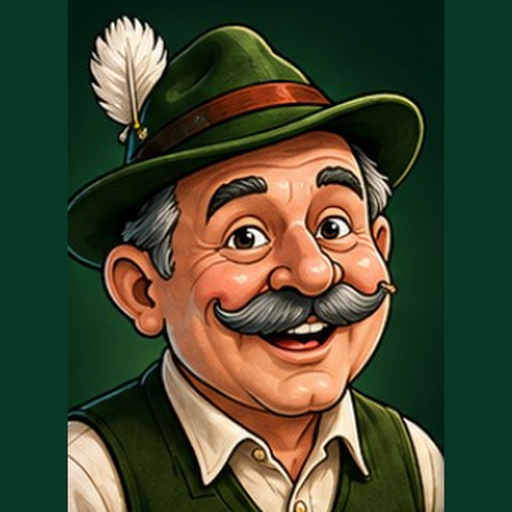
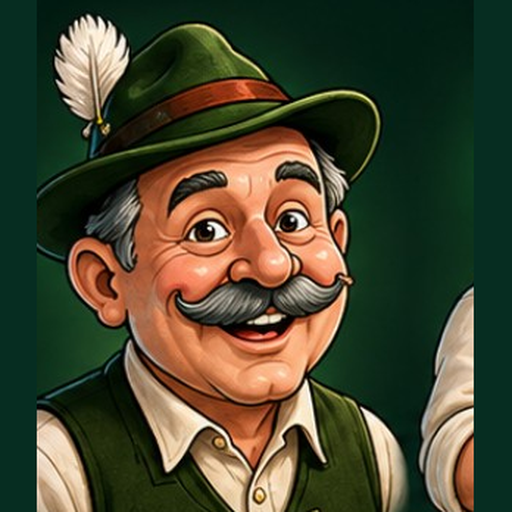
Add files via upload

diff --git a/index.html b/index.html
@@ -760,7 +760,7 @@ function normalizeEntry(e){const today=new Date();const fallbackDate=[today.getF
   gameType:GAME_MAP[e.gameType]?e.gameType:''
  };}
 
-const VERSION='3.2';
+const VERSION='3.2.1';
 const KEY='schafkopf-tracker-v1'; // unveraendert seit v1.1
 const defaultRates=()=>({rufspiel:10,solo:50,bettel:50,hochzeit:20,kreuzrunde:20,ramsch:10,schneider:10,schwarz:10,laeufer:10});
 const defaultRules=()=>({allowSchuss:false,allowKontra:false,rufMinRunners:3});
@@ -1870,4 +1870,31 @@ function wastlV3(){return `<div class="wastl-v3"><div class="wastl-tavern"><img 
 
 render();
 
-</script></body></html>
+</script><style id="v321-visual-refine">
+.home-hero-panel{display:grid;grid-template-columns:1.15fr .85fr;gap:14px;margin-bottom:16px}.home-hero-main{background:linear-gradient(180deg,#0d291f,#10352a);border:1px solid rgba(214,175,88,.22);border-radius:28px;padding:22px;box-shadow:0 14px 26px rgba(0,0,0,.22)}.home-hero-main .over{color:#d7c48b;font-weight:800;letter-spacing:1px;font-size:12px}.home-hero-main h2{margin:6px 0 8px;color:#fff2d8;font-size:30px;line-height:1.04}.home-hero-main p{margin:0;color:#d8e1d3}.home-hero-main .hero-actions{display:flex;gap:10px;flex-wrap:wrap;margin-top:16px}.hero-mini-kpis{display:grid;gap:12px}.hero-mini-kpis .mini{background:linear-gradient(180deg,#f8efd9,#f2e2ba);color:#222;border:1px solid #d5b86f;border-radius:24px;padding:18px 16px;box-shadow:0 10px 18px rgba(0,0,0,.12)}.hero-mini-kpis .mini span{display:block;color:#5e553f;font-size:13px;margin-bottom:5px}.hero-mini-kpis .mini b{font-size:28px;color:#153624}.hero-mini-kpis .mini small{display:block;color:#5e553f;margin-top:4px}
+.section-shell{background:linear-gradient(180deg,#103126,#0d271f);border:1px solid rgba(214,175,88,.16);border-radius:28px;padding:14px;box-shadow:0 12px 22px rgba(0,0,0,.18)}
+.home-quick-grid{display:grid;grid-template-columns:repeat(3,minmax(0,1fr));gap:12px}.home-quick-card{background:linear-gradient(180deg,#14352a,#10291f);border:1px solid rgba(214,175,88,.18);border-radius:24px;padding:18px;text-align:left;color:#fff0d4;box-shadow:0 10px 16px rgba(0,0,0,.15)}.home-quick-card b{display:block;font-size:18px;margin-top:8px}.home-quick-card small{display:block;color:#c3d1c3;margin-top:4px}.home-quick-card .ic{width:42px;height:42px;border-radius:14px;display:grid;place-items:center;background:linear-gradient(180deg,#1d944d,#156e3d);color:#fff}
+.page-ribbon{display:flex;align-items:center;justify-content:space-between;gap:12px;margin:0 0 12px}.page-ribbon h2{margin:0;color:#fff1d7;font-size:24px}.page-ribbon p{margin:4px 0 0;color:#cad5c8}.page-ribbon .badge{background:#f3e4bf;color:#25412e}
+.capture-shell,.stats-shell,.games-shell{display:flex;flex-direction:column;gap:14px}.capture-hero{background:linear-gradient(180deg,#5b3823,#4b2d1d);border:1px solid rgba(214,175,88,.24);padding:18px 20px;border-radius:28px;color:#fcebd1;box-shadow:0 12px 24px rgba(0,0,0,.18)}.capture-hero h2{margin:0 0 6px;font-size:28px}.capture-hero p{margin:0;color:#f2dfc0}.capture-options{display:grid;gap:12px}.capture-options .workspace-option{padding:18px 20px}
+.games-toolbar{display:flex;align-items:center;justify-content:space-between;gap:12px;background:linear-gradient(180deg,#0d291f,#10352a);border:1px solid rgba(214,175,88,.2);border-radius:24px;padding:14px 16px}.games-toolbar .label b{display:block;color:#fff0d3}.games-toolbar .label small{color:#c7d1c4}.games-sections .training-modes{margin-bottom:12px}.games-sections .training-modes button{border-radius:18px;padding:12px 14px}
+.stats-shell .segmented-v3{margin-top:0}.stats-highlight{display:grid;grid-template-columns:1fr 1fr 1fr;gap:12px}.stats-highlight .mini{background:linear-gradient(180deg,#f8efd9,#f2e2ba);border:1px solid #d5b86f;border-radius:24px;padding:16px;color:#223121}.stats-highlight .mini span{display:block;color:#635840;font-size:13px}.stats-highlight .mini b{display:block;font-size:28px;margin-top:5px}.stats-title-card{background:linear-gradient(180deg,#0f2d22,#133b2d);border:1px solid rgba(214,175,88,.2);border-radius:28px;padding:18px 20px;color:#fff0d5}.stats-title-card h2{margin:0 0 6px;font-size:28px}.stats-title-card p{margin:0;color:#d2dccd}
+.mentor-speech.chessy{grid-template-columns:86px 1fr;align-items:end}.mentor-speech.chessy img{width:86px;height:86px;border-radius:18px;background:transparent;border:none;box-shadow:none;object-fit:cover}.mentor-speech.chessy .mentor-bubble{border-radius:22px;background:#faf7f2;color:#262626;border:1px solid #d7d3c8;min-height:82px;display:flex;align-items:center;font-size:18px;font-weight:600;padding:0 18px}.mentor-speech.chessy .mentor-bubble::before{left:-14px;top:auto;bottom:24px;border-width:10px 14px 10px 0;border-color:transparent #faf7f2 transparent transparent;filter:drop-shadow(-1px 0 0 #d7d3c8)}
+.mentor-stage .mentor-bubble{font-family:system-ui,Arial,sans-serif}.mentor-step-note{font-size:13px;color:#dbe7de;margin:-4px 0 10px}.mentor-hand-wrap{background:linear-gradient(180deg,#0f2b21,#0a2119)}
+.training-card .training-face,.mentor-card-frame .training-face{width:100%;height:auto}.training-card .playing-card{display:block;border-radius:18px;overflow:visible}.counter-card-grid{gap:8px}.training-card{padding:4px;border-radius:18px}.training-card .card-eyes{font-size:11px}
+.stitch-layout .stitch-head,.stitch-layout .counter-head{background:linear-gradient(180deg,#5b3823,#4b2d1d)!important;border-color:rgba(214,175,88,.24)!important}.stitch-layout .stitch-head h2,.stitch-layout .counter-head h2{color:#fff1d4}.stitch-history,.stitch-archive-detail .replay-panel,.counter-panel,.stitch-config,.stitch-seats{border-radius:24px}.formcard h3{color:#fff0d2}
+@media (max-width:780px){.home-hero-panel{grid-template-columns:1fr}.home-quick-grid,.stats-highlight{grid-template-columns:1fr}.mentor-speech.chessy{grid-template-columns:68px 1fr}.mentor-speech.chessy img{width:68px;height:68px}}
+</style>
+<script>
+function suitMark(suit,x,y,scale=1){let content='';if(suit==='herz') content='<path d="M12 21.6C7.5 18.4 2.5 13.7 2.5 8.9C2.5 4.2 7.6 1.7 12 5.8C16.4 1.7 21.5 4.2 21.5 8.9C21.5 13.7 16.5 18.4 12 21.6Z" fill="#d82727" stroke="#a81818" stroke-width="0.9"/>'; else if(suit==='gras') content='<path d="M12 21C3.8 18.4 3.6 7.6 12 3.2C20.4 7.6 20.2 18.4 12 21Z" fill="#269245" stroke="#185f2d" stroke-width="0.9"/><path d="M12 19.8V7" stroke="#154f29" stroke-width="1.3" stroke-linecap="round"/><path d="M12 11 8.2 14.6M12 9.5 16 13" stroke="#154f29" stroke-width="1.05" stroke-linecap="round"/>'; else if(suit==='eichel') content='<path d="M6.7 10.9c-2.3 4.4-.4 9.9 5.3 11c5.7-1.1 7.6-6.6 5.3-11Z" fill="#a56a22" stroke="#71461a" stroke-width="1"/><path d="M4.8 10.4C6.7 5.5 9.2 4 12 4.5c2.8-.5 5.3 1 7.2 5.9c-4.9 1.8-9.5 1.8-14.4 0Z" fill="#cf8a2d" stroke="#84531b" stroke-width="0.9"/><path d="M11.8 4.6 14.4 2" stroke="#6f4317" stroke-width="1.2" stroke-linecap="round"/>'; else content='<path d="M7.6 5.2 5.8 14.8Q5 20.2 12 21q7-.8 6.2-6.2L16.4 5.2Z" fill="#f0c535" stroke="#9d7118" stroke-width="1"/><path d="M6.2 9.3h11.6M7 14.7h10" stroke="#ce2d2d" stroke-width="2.15"/><path d="M12 5V2.5" stroke="#80581b" stroke-width="1.4" stroke-linecap="round"/>';return `<g transform="translate(${x} ${y}) scale(${scale})">${content}</g>`;}
+function pipLayout(rank){return ({'7':[[25,34],[65,34],[45,54],[25,74],[65,74],[25,95],[65,95]],'8':[[25,31],[65,31],[25,50],[65,50],[25,73],[65,73],[25,96],[65,96]],'9':[[45,25],[25,42],[65,42],[25,60],[65,60],[45,78],[25,96],[65,96],[45,114]],'10':[[25,23],[65,23],[25,39],[65,39],[25,55],[65,55],[25,71],[65,71],[25,87],[65,87]]})[rank]||[];}
+function royalTop(rank,suit){const skin='#efc49e', outline='#2f2922'; const suitCfg={eichel:{coat:'#2e8d45',trim:'#dcb85f',accent:'#b83b34',hat:'#1c6b35'},gras:{coat:'#2e8d45',trim:'#dcb85f',accent:'#b83b34',hat:'#1c6b35'},herz:{coat:'#c94437',trim:'#e6c66d',accent:'#275ba8',hat:'#bb4433'},schell:{coat:'#c94437',trim:'#e6c66d',accent:'#275ba8',hat:'#bb4433'}}[suit]; const isKing=rank==='K', isUpper=rank==='O'; const head=`<ellipse cx="45" cy="33" rx="12" ry="14" fill="${skin}" stroke="#7a5039" stroke-width="1.1"/><circle cx="40" cy="31" r="1.3" fill="#231a15"/><circle cx="50" cy="31" r="1.3" fill="#231a15"/><path d="M41 38c2.8 2.2 5.2 2.2 8 0" stroke="#8a6041" stroke-width="1.2" fill="none"/><path d="M34 22c3.6-6 17.3-6 21.8 1" stroke="#707070" stroke-width="5" stroke-linecap="round"/><path d="M36 23c2.5-4 5.4-6 9-6c4 0 6.9 1.8 9.8 5.4" stroke="#efefef" stroke-width="3.3" stroke-linecap="round"/>`; const hat=isKing?`<path d="M32 18 37 11 43 18 45 8 49 18 55 11 58 18v7H32Z" fill="#efcc5d" stroke="#9b7326" stroke-width="1.1"/><circle cx="43" cy="16" r="1.5" fill="#228b54"/><circle cx="49" cy="16" r="1.5" fill="#cb3434"/>`:`<path d="M31 22c4-9 12-14 21-14c8.5 0 14 3.5 19 12v9H31Z" fill="${suitCfg.hat}" stroke="#6a4326" stroke-width="1.1"/><path d="M43 10c7.5-1 13.4 1.2 18.5 5.4" stroke="#f2e6c4" stroke-width="2.2" fill="none" stroke-linecap="round"/><rect x="45" y="8" width="4" height="8" rx="2" fill="#f7f6f1"/>`; const body=`<path d="M19 111c0-29 9-52 26-58l17 0c17 6 26 29 26 58Z" fill="${suitCfg.coat}" stroke="${outline}" stroke-width="1.2"/><path d="M45 48V111" stroke="${suitCfg.trim}" stroke-width="3.6"/><path d="M26 72h38M23 88h44" stroke="#f7eed4" stroke-width="1.7"/><path d="M20 111c8-4 14-7 22-10l3 10l4-10c8 3 15 6 23 10" fill="${suitCfg.accent}" opacity=".36"/>`; const arms=isUpper?'<path d="M18 75c8-1 15-6 21-12" stroke="#f6e8c2" stroke-width="3" fill="none" stroke-linecap="round"/>':'<path d="M18 82c9-6 17-9 28-10" stroke="#f6e8c2" stroke-width="3" fill="none" stroke-linecap="round"/>'; const staff=isKing?'<path d="M67 31V101" stroke="#8b6322" stroke-width="3"/><circle cx="67" cy="27" r="4" fill="#e8c55e" stroke="#9b7326" stroke-width="1"/>':'<path d="M69 34 77 96" stroke="#8b6322" stroke-width="2.4"/><path d="M77 93 83 101 73 101Z" fill="#c7d7d2" stroke="#6e847f" stroke-width="1.1"/>'; return `<g>${body}${head}${hat}${staff}${arms}${suitMark(suit,28,77,.9)}</g>`;}
+function cardSVG(c){const colorMap={eichel:'#85571f',gras:'#1c7b40',herz:'#c81f26',schell:'#b27b10'}; const col=colorMap[c.suit]; const corner=`<text x="9" y="17" font-family="Georgia,serif" font-size="14" font-weight="700" fill="${col}">${c.rank}</text>${suitMark(c.suit,7.3,20,.48)}`; let center=''; if(c.rank==='A') center=`<g><path d="M45 98c-6 8-17 10-24 9c1-18 8-33 24-47c16 14 23 29 24 47c-7 1-18-1-24-9Z" fill="#fdf8ea" stroke="#ddcfae" stroke-width="1.2"/>${suitMark(c.suit,20,45,2.05)}</g>`; else if(['K','O','U'].includes(c.rank)) center=`<g transform="translate(0,10)">${royalTop(c.rank,c.suit)}</g><g transform="translate(90,132) rotate(180)">${royalTop(c.rank,c.suit)}</g>`; else center=pipLayout(c.rank).map(([x,y])=>suitMark(c.suit,x-8,y,.78)).join(''); return `<svg class="training-face" viewBox="0 0 90 142" xmlns="http://www.w3.org/2000/svg" aria-hidden="true"><defs><filter id="cardDrop321" x="-25%" y="-25%" width="150%" height="160%"><feDropShadow dx="0" dy="3" stdDeviation="2.1" flood-color="#000" flood-opacity=".16"/></filter></defs><rect x="2.2" y="2.2" width="85.6" height="137.6" rx="8.8" fill="#fffdfa" stroke="#26221f" stroke-width="1.4" filter="url(#cardDrop321)"/><rect x="5" y="5" width="80" height="132" rx="6.8" fill="#fffef8" stroke="#d9ccb3" stroke-width="1"/>${corner}<g transform="translate(90 142) rotate(180)">${corner}</g>${center}</svg>`;}
+function mentorSpeech(message){return `<div class="mentor-speech chessy"><img class="mentor-portrait" src="wastl.png" alt="Wastl"><div class="mentor-bubble">${esc(message)}</div></div>`;}
+function homeV3(){ const ss=summary(sessionEntries()), gamesSum=summary(gameEntries()), trained=[...stitch.archive].sort((a,b)=>String(b.started).localeCompare(String(a.started)))[0], latest=sorted(sessionEntries()).reverse().slice(0,3); return `<div class="home-v3"><div class="home-hero-panel"><div class="home-hero-main"><span class="over">SCHAFKOPFTRACKER · START</span><h2>Alles Wichtige an einem Ort.</h2><p>Erfasse Spielabende, tracke Einzelspiele und trainiere mit Wastl – jetzt im aufgeräumteren App-Look.</p><div class="hero-actions"><button type="button" class="btn" data-workspace="entry">Einzelspiel erfassen</button><button type="button" class="btn secondary" data-workspace="training">Karten tracken</button></div></div><div class="hero-mini-kpis"><div class="mini"><span>Gesamtbilanz</span><b class="${amountColor(ss.amount)}">${euro(ss.amount)}</b><small>${ss.count} Abende</small></div><div class="mini"><span>Einzelspiele</span><b>${gamesSum.count}</b><small>${gamesSum.amount>=0?'+':''}${normalEUR(gamesSum.amount)}</small></div><div class="mini"><span>Trainingspartien</span><b>${stitch.archive.length}</b><small>${trained?new Date(trained.started).toLocaleDateString('de-DE'):'Noch keine Partie'}</small></div></div></div><section class="section-shell"><div class="page-ribbon"><div><h2>Schnellzugriff</h2><p>Deine drei Hauptwege in die App.</p></div><span class="badge">Start</span></div><div class="home-quick-grid"><button class="home-quick-card" data-workspace="history"><span class="ic">${symbol('history')}</span><b>Spielabend</b><small>Manuell eintragen oder automatisch aus Einzelspielen übernehmen</small></button><button class="home-quick-card" data-workspace="entry"><span class="ic">${symbol('plus')}</span><b>Einzelspiel</b><small>Spielart, Punkte und Preis in wenigen Schritten erfassen</small></button><button class="home-quick-card" data-workspace="training"><span class="ic">${symbol('stats')}</span><b>Karten tracken</b><small>Einfach zählen oder Stich für Stich mit Wastl auswerten</small></button></div></section><section class="section"><div class="sectionhead"><h2>Deine Entwicklung</h2><button type="button" class="btn ghost small-button" data-stat-target="finances">Statistik →</button></div><div class="card chartcard" id="chartContainer">${chart()}</div></section><section class="section-shell"><div class="page-ribbon"><div><h2>Letzte Spielabende</h2><p>Die neuesten Einträge aus deinem Verlauf.</p></div><span class="badge">${latest.length}</span></div>${latest.length?latest.map(e=>sessionCard(e,false)).join(''):'<div class="card empty">Noch kein Spielabend erfasst.</div>'}</section></div>`;}
+function captureHub(){return `<div class="content-page capture-shell"><div class="capture-hero"><h2>Erfassen & Tracken</h2><p>Wähle aus, was du heute festhalten möchtest. Alles bleibt lokal auf deinem Gerät.</p></div><div class="capture-options"><button type="button" class="workspace-option" data-workspace="history"><span class="workspace-icon">${symbol('history')}</span><span><b>Spielabend</b><small>Abendbilanz manuell erfassen oder automatisch berechnete Abende prüfen</small></span><span class="workspace-arrow">→</span></button><button type="button" class="workspace-option" data-workspace="entry"><span class="workspace-icon">${symbol('plus')}</span><span><b>Einzelspiel</b><small>Spielart auswählen, Punkte eintragen und Preis automatisch berechnen</small></span><span class="workspace-arrow">→</span></button><button type="button" class="workspace-option" data-workspace="training"><span class="workspace-icon">${symbol('stats')}</span><span><b>Karten tracken</b><small>Einfach zählen oder vollständige Stichverläufe für Training und Fair Play erfassen</small></span><span class="workspace-arrow">→</span></button></div><div class="capture-tip"><strong>Gut zu wissen</strong><p>Trainingspartien lassen sich später mit Wastl analysieren. Offizielle Geldspiele kannst du im Fair-Play-Modus tracken, ohne dir offene Informationen auf dem Display zu verraten.</p></div></div>`;}
+function games(){return `<div class="games-shell"><div class="games-toolbar"><div class="label"><b>${gamesSubtab==='counter'?'Karten-Tracking':'Einzelspiel-Eingabe'}</b><small>${gamesSubtab==='counter'?'Live-Training oder Fair Play mit Karten- und Stichverlauf':'Schnelle Eingabe für Spielart, Punkte und automatische Preisberechnung'}</small></div><div class="segmented-v3" style="margin:0"><button type="button" data-games-subtab="entry" class="${gamesSubtab==='entry'?'active':''}">Einzelspiel</button><button type="button" data-games-subtab="counter" class="${gamesSubtab==='counter'?'active':''}">Karten tracken</button></div></div><div class="games-sections">${gamesSubtab==='counter'?`<div class="training-modes" role="group" aria-label="Art der Kartenerfassung"><button type="button" data-training-view="simple" class="${trainingView==='simple'?'active':''}">Einfach zählen</button><button type="button" data-training-view="stitch" class="${trainingView==='stitch'?'active':''}">Mit Stichverlauf</button></div>${trainingView==='stitch'?stitchUI():counterUI()}`:singleGameUI()}</div></div>`;}
+function statsV3(){ const labels=[['finances','Finanzen'],['types','Spielarten'],['training','Training']]; const wrap=document.createElement('div'); wrap.innerHTML=statsLegacy(); const sections=Array.from(wrap.querySelectorAll('section')); const findSection=(name)=>sections.find(x=>x.querySelector('h2')?.textContent.trim().startsWith(name)); const ss=summary(sessionEntries()), gs=summary(gameEntries()); const trainCount=stitch.archive.length; let body=''; if(statView==='finances'){ const header=wrap.querySelector('.stats-heading'); const kpis=wrap.querySelector('.year-kpis'); body=`${header?.outerHTML||''}${kpis?.outerHTML||''}${findSection('Monatsübersicht')?.outerHTML||''}<section class="section"><div class="sectionhead"><h2>Gewinnentwicklung</h2><span class="subtle">Abende · kumuliert</span></div><div class="card chartcard" id="chartContainer">${chart()}</div></section>${findSection('Rekorde deiner Abende')?.outerHTML||''}${findSection('Dein freiwilliges Jahresziel')?.outerHTML||''}`; } else if(statView==='types'){ body=findSection('Statistik der Einzelspiele')?.outerHTML||'<div class="card empty">Noch keine Spielarten erfasst.</div>'; } else { body=trainingStatsPage(); } return `<div class="content-page statistics-v3 stats-shell"><div class="stats-title-card"><h2>Deine Statistik</h2><p>Finanzen, Spielarten und Trainingsdaten sauber getrennt an einem Ort.</p></div><div class="stats-highlight"><div class="mini"><span>Spielabende</span><b>${ss.count}</b><small>${euro(ss.amount)}</small></div><div class="mini"><span>Einzelspiele</span><b>${gs.count}</b><small>${gs.amount>=0?'+':''}${normalEUR(gs.amount)}</small></div><div class="mini"><span>Trainingspartien</span><b>${trainCount}</b><small>mit Wastl auswertbar</small></div></div><div class="segmented-v3" role="tablist" aria-label="Statistikbereich">${labels.map(([id,label])=>`<button type="button" role="tab" data-stat-view="${id}" class="${statView===id?'active':''}" aria-selected="${statView===id}">${label}</button>`).join('')}</div>${body}</div>`;}
+function wastlV3(){const g=mentorSelected();return `<div class="wastl-v3"><div class="wastl-tavern"><img src="wastl.png" alt="Wastl, dein Schafkopf-Mentor"><div><span class="wastl-overline">DEIN SCHAFKOPF-MENTOR</span><h2>Servus! I bin da Wastl.</h2><p>Locker, hilfreich und Schritt für Schritt – so schauen wir gemeinsam auf deine Partie.</p></div></div>${mentorUI()}</div>`;}
+render();
+</script>
+</body></html>
